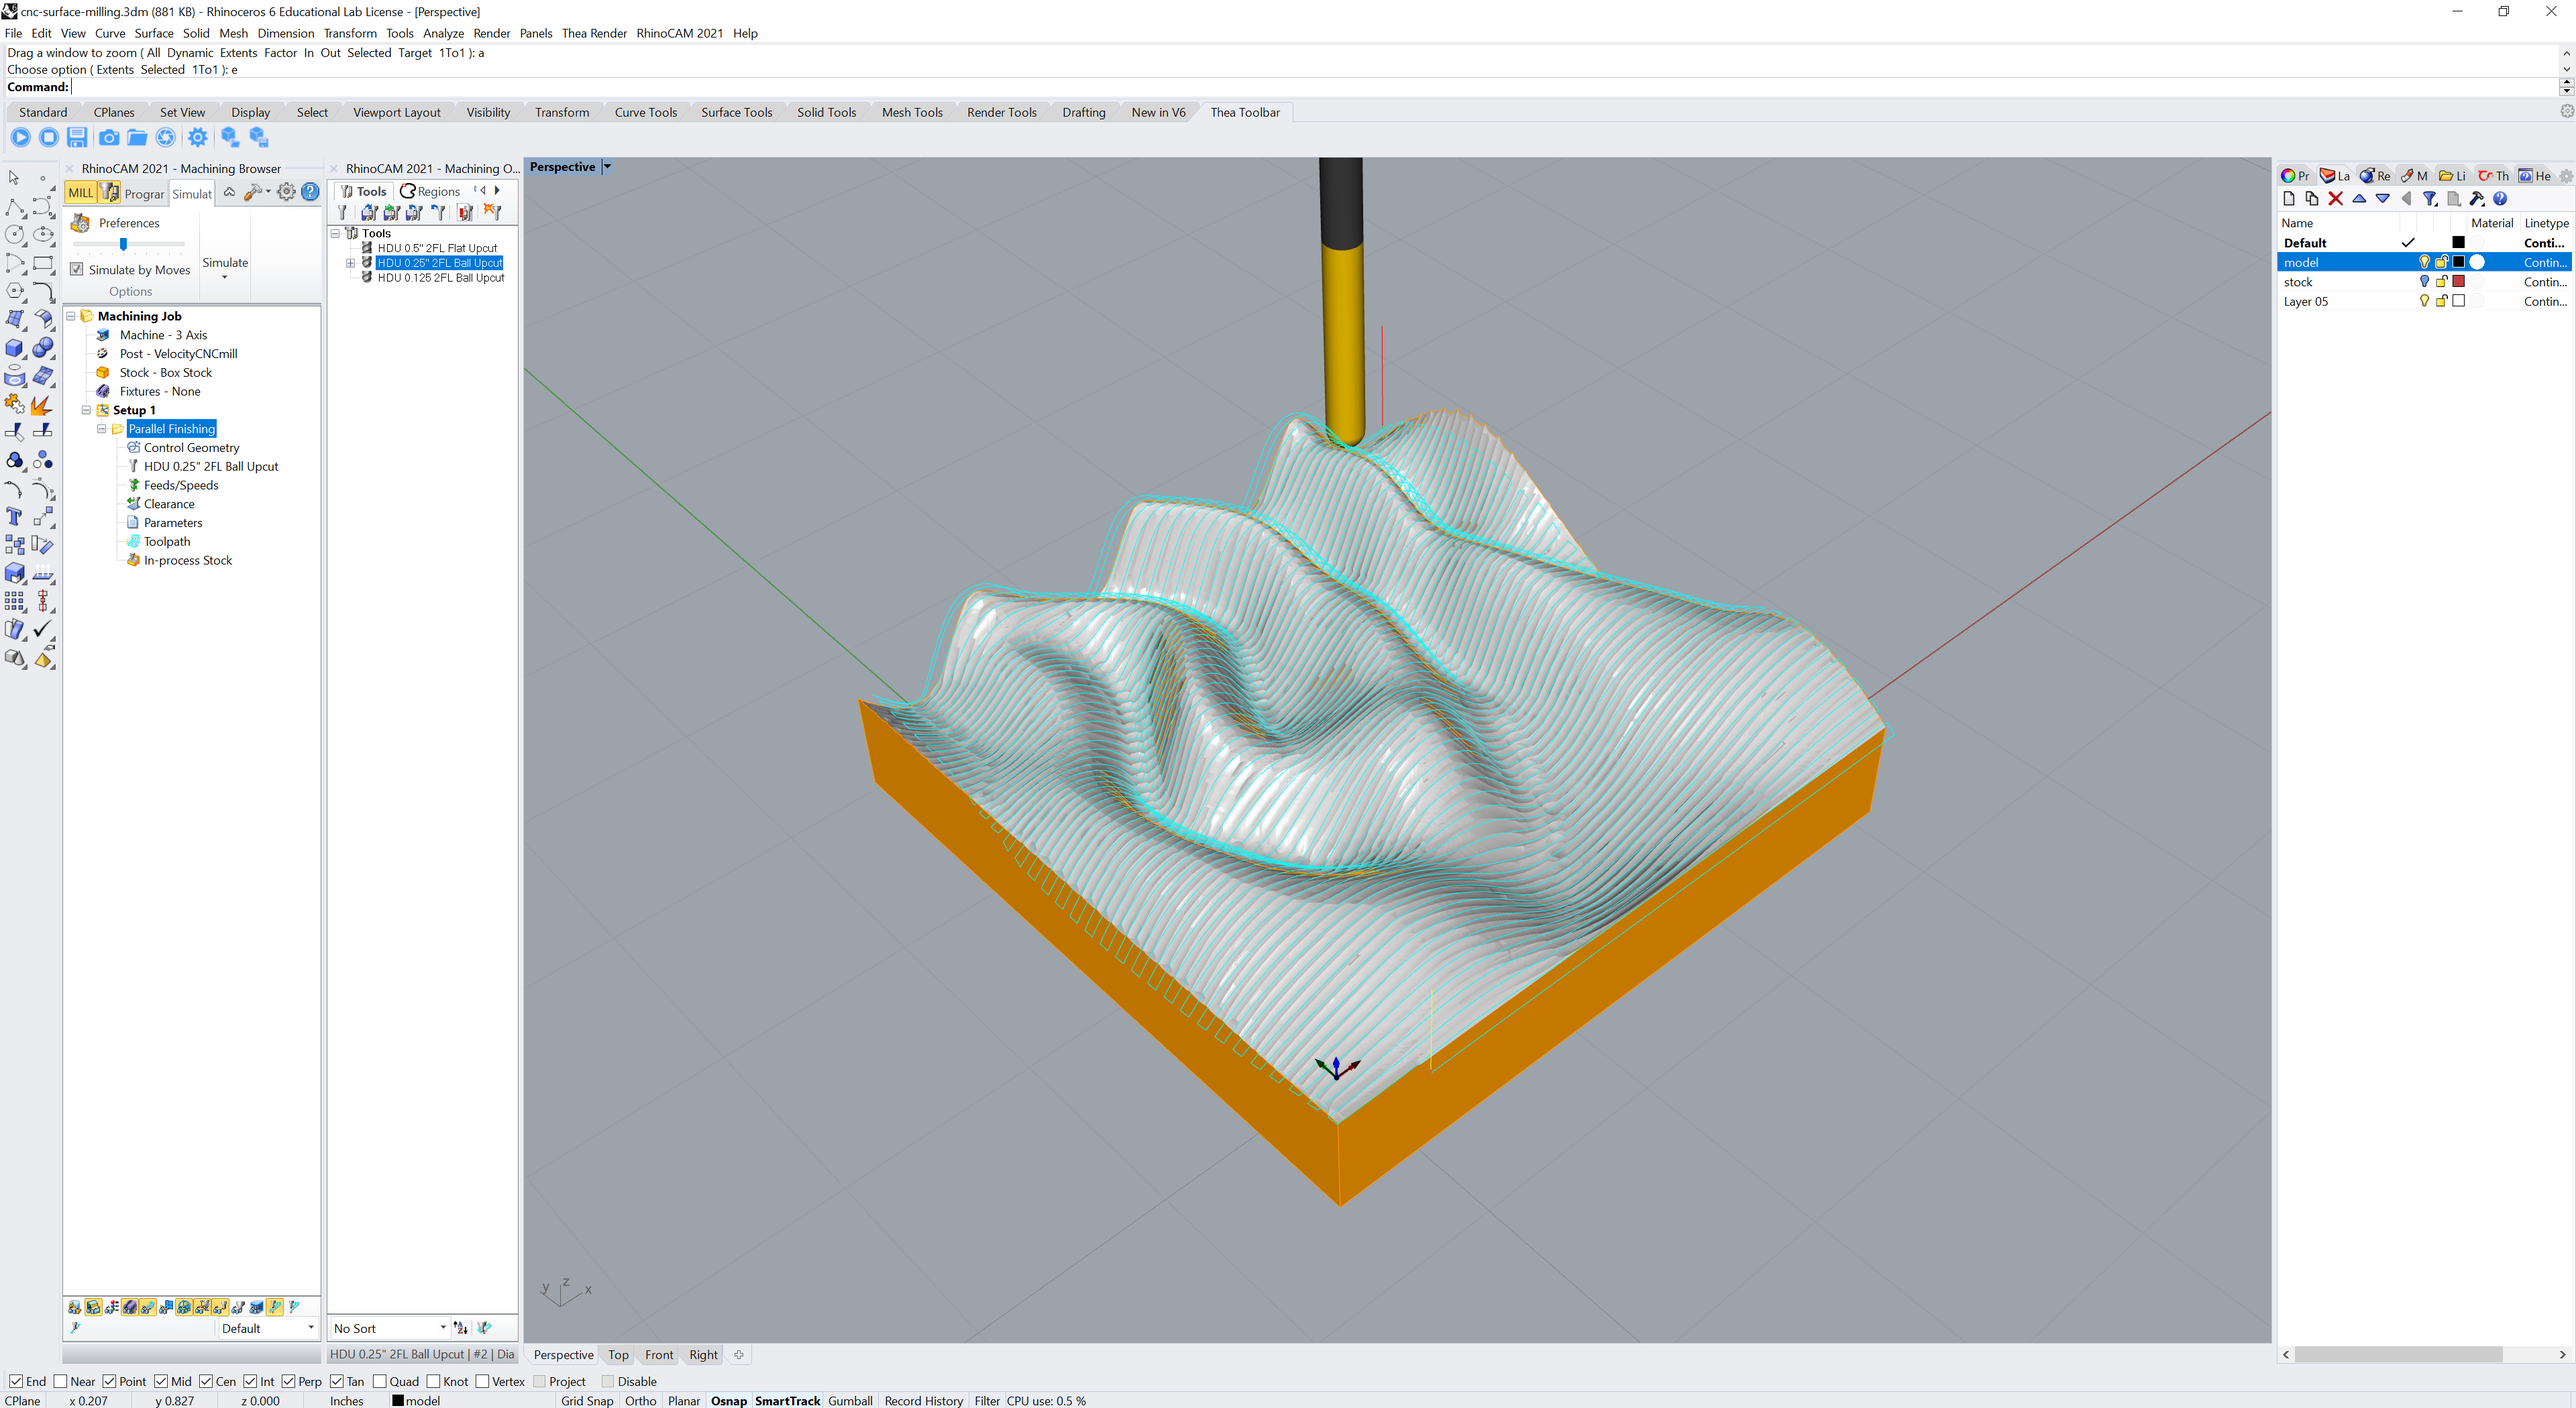
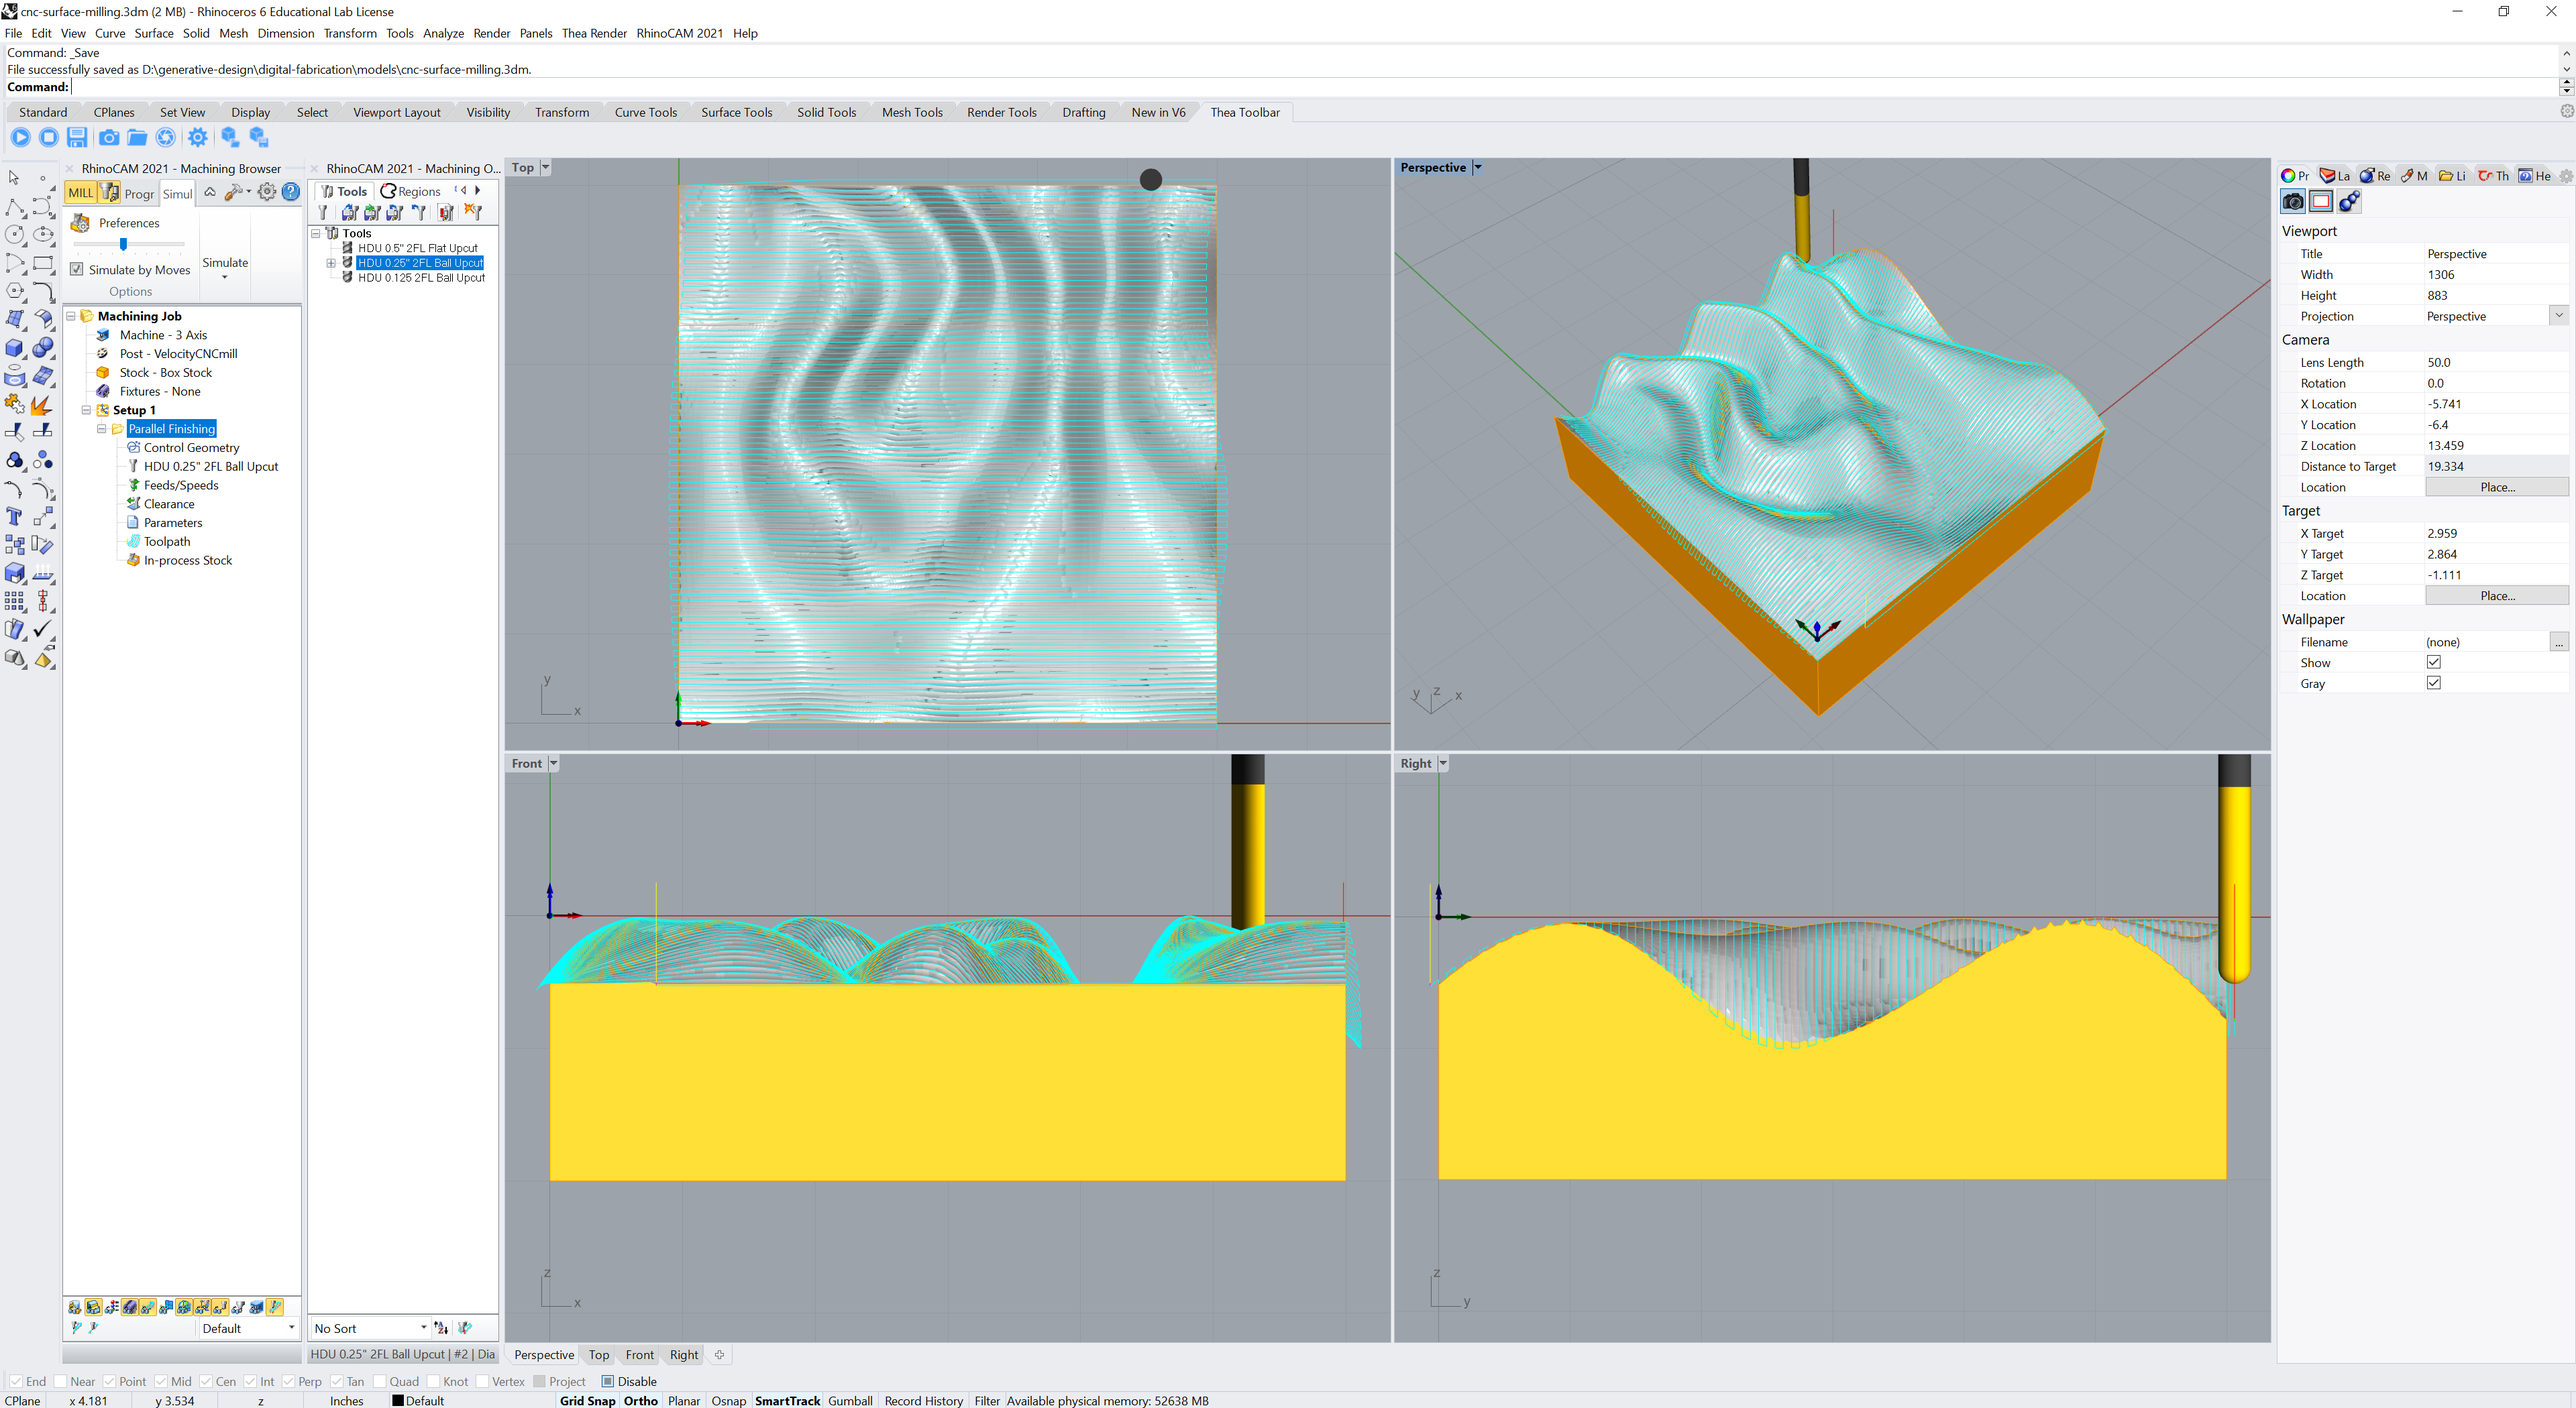
updated cnc tutorial

diff --git a/_pages/generative-landscapes/cnc-surface-milling.md b/_pages/generative-landscapes/cnc-surface-milling.md
@@ -136,6 +136,6 @@ In the `Simulation` tab of the Machining Browser
 under `Simulate` select `Play`
 to simulate the machining operation in Rhino's viewports.
 
-![CNC simulation](/images/cnc/simulation-1.png)
+![CNC simulation](/images/cnc/simulation-2.png)
 
 ![CNC surface milling](/images/cnc/renshape-2.jpg)
